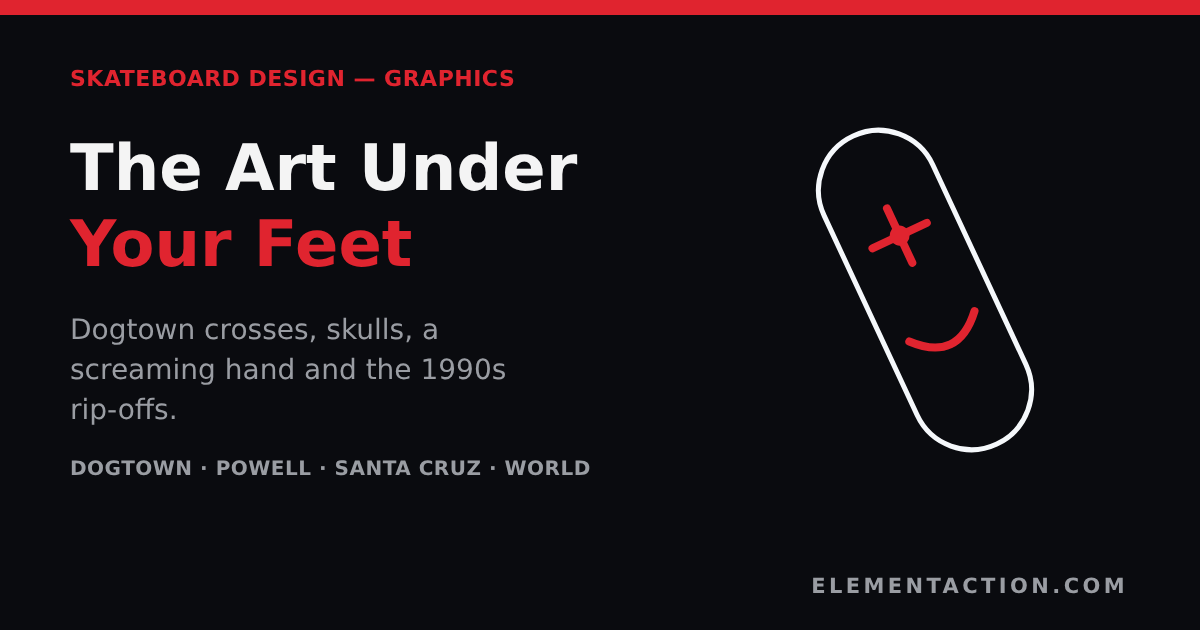
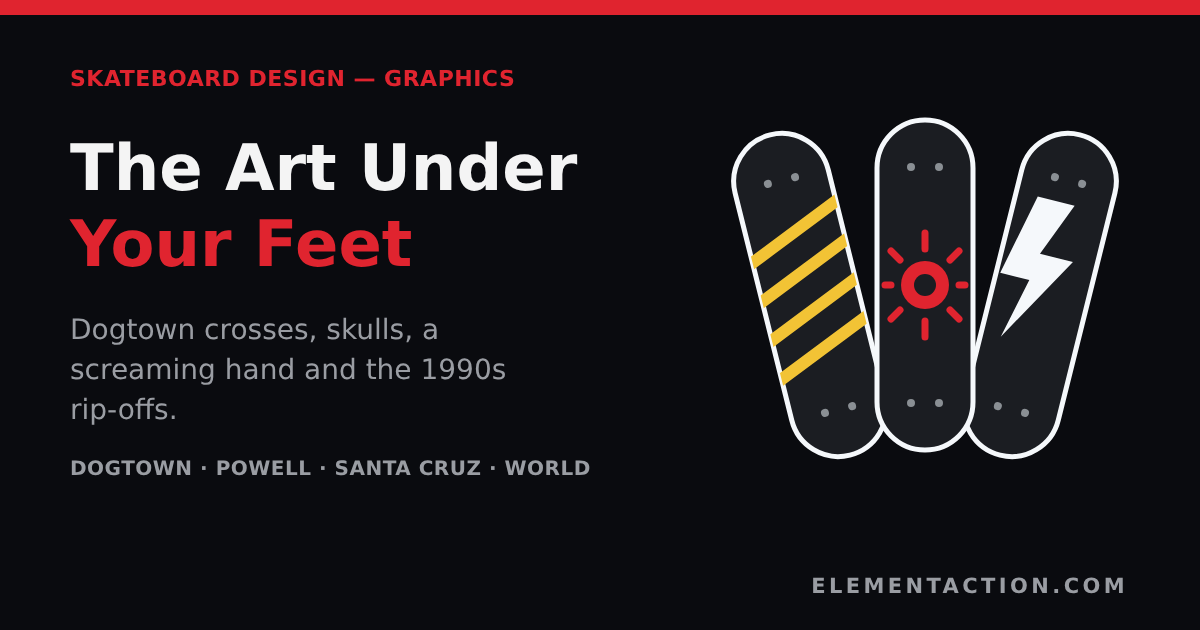
new art og bild

diff --git a/scripts/staging/make_og.py b/scripts/staging/make_og.py
@@ -1,0 +1,186 @@
+"""Delningsbilder (1200x630) för artiklarna, i samma stil som de befintliga:
+mörk bakgrund, färgad topplist, kicker, rubrik på två rader, ingress,
+nyckelord och ELEMENTACTION.COM nere till höger. Illustrationen till höger
+är enkel SVG. Kör: python3 scripts/staging/make_og.py"""
+import pathlib, sys
+from playwright.sync_api import sync_playwright
+
+ROOT = pathlib.Path(__file__).resolve().parents[2]
+OUT = ROOT / 'public/images/articles'
+
+ART = {
+    'museum': '''
+      <path d="M40 60 H410" stroke="#8a8f94" stroke-width="4" stroke-linecap="round"/>
+      <g fill="none" stroke-width="5">
+        <rect x="70" y="80" width="70" height="250" rx="35" stroke="#f5f8fb"/>
+        <rect x="190" y="80" width="70" height="250" rx="35" stroke="ACC"/>
+        <rect x="310" y="80" width="70" height="250" rx="35" stroke="#f5f8fb"/>
+      </g>
+      <g fill="#8a8f94"><circle cx="105" cy="68" r="5"/><circle cx="225" cy="68" r="5"/><circle cx="345" cy="68" r="5"/></g>
+      <g fill="ACC"><circle cx="90" cy="125" r="6"/><circle cx="120" cy="125" r="6"/><circle cx="90" cy="285" r="6"/><circle cx="120" cy="285" r="6"/></g>
+      <g fill="#f5f8fb"><circle cx="210" cy="125" r="6"/><circle cx="240" cy="125" r="6"/><circle cx="210" cy="285" r="6"/><circle cx="240" cy="285" r="6"/></g>
+      <g fill="ACC"><circle cx="330" cy="125" r="6"/><circle cx="360" cy="125" r="6"/><circle cx="330" cy="285" r="6"/><circle cx="360" cy="285" r="6"/></g>
+      <path d="M225 165 l11 22 24 3 -18 17 5 24 -22 -12 -22 12 5 -24 -18 -17 24 -3 z" fill="#f2c335"/>''',
+    'deck': '''
+      <defs>
+        <clipPath id="d1"><rect x="-48" y="-165" width="96" height="330" rx="48"/></clipPath>
+      </defs>
+      <g transform="translate(110 205) rotate(-14)">
+        <rect x="-48" y="-165" width="96" height="330" rx="48" fill="#1b1d22" stroke="#f5f8fb" stroke-width="5"/>
+        <g clip-path="url(#d1)">
+          <path d="M-60 -40 l120 -50 M-60 0 l120 -50 M-60 40 l120 -50 M-60 80 l120 -50" stroke="#f2c335" stroke-width="12"/>
+        </g>
+        <g fill="#8a8f94"><circle cx="-14" cy="-118" r="4"/><circle cx="14" cy="-118" r="4"/><circle cx="-14" cy="118" r="4"/><circle cx="14" cy="118" r="4"/></g>
+      </g>
+      <g transform="translate(340 205) rotate(14)">
+        <rect x="-48" y="-165" width="96" height="330" rx="48" fill="#1b1d22" stroke="#f5f8fb" stroke-width="5"/>
+        <path d="M-26 -95 l38 0 -22 55 34 0 -52 90 14 -62 -30 0 z" fill="#f5f8fb"/>
+        <g fill="#8a8f94"><circle cx="-14" cy="-118" r="4"/><circle cx="14" cy="-118" r="4"/><circle cx="-14" cy="118" r="4"/><circle cx="14" cy="118" r="4"/></g>
+      </g>
+      <g transform="translate(225 195)">
+        <rect x="-48" y="-165" width="96" height="330" rx="48" fill="#1b1d22" stroke="#f5f8fb" stroke-width="5"/>
+        <circle cx="0" cy="0" r="24" fill="ACC"/>
+        <circle cx="0" cy="0" r="11" fill="#1b1d22"/>
+        <path d="M0 -52 V-36 M0 36 V52 M-40 0 H-34 M34 0 H40 M-25 -25 l-9 -9 M25 25 l9 9 M25 -25 l9 -9 M-25 25 l-9 9" stroke="ACC" stroke-width="7" stroke-linecap="round"/>
+        <g fill="#8a8f94"><circle cx="-14" cy="-118" r="4"/><circle cx="14" cy="-118" r="4"/><circle cx="-14" cy="118" r="4"/><circle cx="14" cy="118" r="4"/></g>
+      </g>''',
+    'camera': '''
+      <rect x="70" y="110" width="310" height="200" rx="22" fill="none" stroke="#f5f8fb" stroke-width="6"/>
+      <path d="M140 110 l25 -35 h120 l25 35" fill="none" stroke="#f5f8fb" stroke-width="6" stroke-linejoin="round"/>
+      <circle cx="225" cy="210" r="70" fill="none" stroke="ACC" stroke-width="8"/>
+      <circle cx="225" cy="210" r="34" fill="ACC" fill-opacity=".35"/>
+      <circle cx="340" cy="145" r="9" fill="#f2c335"/>''',
+    'waves': '''
+      <path d="M0 260 Q75 200 150 260 T300 260 T450 260" stroke="ACC" stroke-width="5" fill="none"/>
+      <path d="M0 300 Q75 240 150 300 T300 300 T450 300" stroke="ACC" stroke-opacity=".6" stroke-width="5" fill="none"/>
+      <path d="M0 340 Q75 280 150 340 T300 340 T450 340" stroke="ACC" stroke-opacity=".35" stroke-width="5" fill="none"/>
+      <circle cx="360" cy="90" r="38" fill="none" stroke="#f2c335" stroke-width="5"/>
+      <path d="M40 120 l60 -10 M60 150 l70 -12 M30 90 l50 -8" stroke="#8a8f94" stroke-width="4" stroke-linecap="round"/>''',
+    'bigwave': '''
+      <path d="M0 360 C60 360 90 300 120 220 C150 120 230 40 330 50 C400 58 440 110 420 160 C405 200 360 205 340 180 C370 175 380 140 355 120 C320 95 260 130 240 210 C225 280 220 330 260 360 Z" fill="ACC" fill-opacity=".9"/>
+      <path d="M0 375 H450" stroke="ACC" stroke-width="5"/>
+      <path d="M150 300 l30 -40 l14 6" stroke="#f5f8fb" stroke-width="5" fill="none" stroke-linecap="round"/>
+      <text x="262" y="300" font-family="DejaVu Sans" font-weight="700" font-size="40" fill="#f5f8fb">26.21 m</text>''',
+    'board': '''
+      <g transform="translate(225 200) rotate(-35)">
+        <path d="M0 -175 C55 -120 62 60 30 160 L0 175 L-30 160 C-62 60 -55 -120 0 -175 Z" fill="none" stroke="ACC" stroke-width="5"/>
+        <path d="M0 -170 V170" stroke="ACC" stroke-opacity=".5" stroke-width="3"/>
+        <path d="M-22 120 l-10 30 l14 -6 Z M22 120 l10 30 l-14 -6 Z M0 135 l0 32" stroke="#f2c335" stroke-width="4" fill="#f2c335"/>
+      </g>
+      <text x="40" y="380" font-family="DejaVu Sans" font-weight="700" font-size="34" fill="#f5f8fb">litres?</text>''',
+    'punk': '''
+      <rect x="70" y="50" width="310" height="190" rx="16" fill="none" stroke="#f5f8fb" stroke-width="5"/>
+      <rect x="110" y="85" width="230" height="70" rx="8" fill="none" stroke="ACC" stroke-width="5"/>
+      <circle cx="160" cy="120" r="20" fill="none" stroke="#f5f8fb" stroke-width="5"/>
+      <circle cx="290" cy="120" r="20" fill="none" stroke="#f5f8fb" stroke-width="5"/>
+      <path d="M130 240 l25 -45 h140 l25 45" fill="none" stroke="#f5f8fb" stroke-width="5"/>
+      <path d="M60 320 Q215 360 390 320" stroke="ACC" stroke-width="10" fill="none" stroke-linecap="round"/>
+      <circle cx="115" cy="352" r="14" fill="ACC"/><circle cx="335" cy="352" r="14" fill="ACC"/>'''
+,
+    'spiral': '''
+      <ellipse cx="225" cy="80" rx="150" ry="26" fill="none" stroke="#c8ccd0" stroke-width="5"/>
+      <ellipse cx="225" cy="150" rx="135" ry="24" fill="none" stroke="#c8ccd0" stroke-width="5"/>
+      <ellipse cx="225" cy="218" rx="120" ry="22" fill="none" stroke="#c8ccd0" stroke-width="5"/>
+      <ellipse cx="225" cy="284" rx="105" ry="20" fill="none" stroke="#c8ccd0" stroke-width="5"/>
+      <path d="M75 80 L120 284 M375 80 L330 284" stroke="#c8ccd0" stroke-width="5"/>
+      <path d="M40 360 C120 300 170 380 250 330 C310 290 360 350 420 320" stroke="ACC" stroke-width="7" fill="none"/>''',
+    'mountain': '''
+      <path d="M0 360 L130 140 L200 230 L290 60 L450 360 Z" fill="ACC" fill-opacity=".85"/>
+      <path d="M290 60 L250 135 L272 125 L290 145 L310 122 L328 132 Z M130 140 L105 182 L125 175 L140 188 L152 172 Z" fill="#f5f8fb"/>
+      <path d="M150 330 l120 -40" stroke="#f2c335" stroke-width="10" stroke-linecap="round"/>''',
+    'boards': '''
+      <g fill="none" stroke-width="5">
+        <rect x="60" y="60" width="62" height="290" rx="31" stroke="ACC"/>
+        <rect x="150" y="80" width="62" height="270" rx="31" stroke="ACC" stroke-opacity=".75"/>
+        <path d="M240 100 h62 v220 l-31 30 l-31 -30 z" stroke="ACC" stroke-opacity=".55" stroke-linejoin="round"/>
+        <path d="M330 120 c0 -40 62 -40 62 0 v190 c0 30 -62 30 -62 0 z" stroke="#f2c335"/>
+      </g>''',
+}
+
+import re as _re
+ART['boardart'] = _re.sub(r'<text[^>]*>[^<]*</text>', '', ART['board'])
+
+DATA = [
+    dict(slug='skateboarding-hall-of-fame-museum', acc='#e0242f', art='museum',
+         kicker='SKATEBOARD HISTORY — HALL OF FAME', t1='Hall of Fame', t2='& Museum',
+         lead="Todd Huber's collection in Simi Valley and all 232 inductees, 2009–2026.",
+         tags='SIMI VALLEY · 2009–2026 · LEGENDS'),
+    dict(slug='skateboard-graphics-history', acc='#e0242f', art='deck',
+         kicker='SKATEBOARD DESIGN — GRAPHICS', t1='The Art Under', t2='Your Feet',
+         lead='Dogtown crosses, skulls, a screaming hand and the 1990s rip-offs.',
+         tags='DOGTOWN · POWELL · SANTA CRUZ · WORLD'),
+    dict(slug='surfboard-art-history', acc='#3b8eea', art='boardart',
+         kicker='SURF DESIGN — BOARD ART', t1='The Surfboard', t2='as Canvas',
+         lead='Pinlines, resin tints, airbrush and the artists who drew surf culture.',
+         tags='TINT · PINLINE · AIRBRUSH · SURF ART'),
+    dict(slug='snowboard-graphics-history', acc='#5cb6ff', art='boards',
+         kicker='SNOWBOARD DESIGN — GRAPHICS', t1='From Logo', t2='to Canvas',
+         lead='The boards that changed how snowboards look, from 1977 to today.',
+         tags='MYSTERY AIR · OUIJA · LIB TECH · CAPITA'),
+    dict(slug='board-culture-photographers', acc='#44d62c', art='camera',
+         kicker='INSPIRATION — PHOTOGRAPHY', t1='Through', t2='the Lens',
+         lead='The photographers who framed surf, skate and snowboard culture.',
+         tags='GRANNIS · BOLSTER · FRIEDMAN · BRITTAIN'),
+    dict(slug='snow-guide-world-slopes-2026-27', acc='#5cb6ff', art='mountain',
+         kicker='SNOWBOARD GUIDE — SEASON 2026/27', t1='Where the', t2='Snow Is',
+         lead='USA, Canada, Japan and Europe: openings, snow reports and avalanche info.',
+         tags='OPENING DATES · SNOW · AVALANCHE'),
+
+    dict(slug='la-punk-skate-scene-1980s', acc='#e0242f', art='punk',
+         kicker='SKATEBOARD HISTORY — LA 1975–1990', t1='Skate & Destroy', t2='LA Punk',
+         lead='Dogtown pools, Black Flag, Suicidal Tendencies and the Skate Rock tapes.',
+         tags='Z-BOYS · SST · VENICE · THRASHER'),
+    dict(slug='guggenheim-history-museums', acc='#44d62c', art='spiral',
+         kicker='INSPIRATION — ARCHITECTURE & ART', t1='The Guggenheim', t2='Story',
+         lead='From a spiral on Fifth Avenue to titanium in Bilbao and a new museum in Abu Dhabi.',
+         tags='NEW YORK · VENICE · BILBAO · ABU DHABI'),
+    dict(slug='snowboard-history', acc='#5cb6ff', art='mountain',
+         kicker='SNOWBOARD HISTORY — 1965 TO TODAY', t1='From Snurfer', t2='to Olympic Gold',
+         lead='A garage in Michigan, resort bans and the road to Nagano 1998.',
+         tags='SNURFER · BURTON · SIMS · OLYMPICS'),
+    dict(slug='snowboard-types-how-to-choose', acc='#5cb6ff', art='boards',
+         kicker='SNOWBOARD GUIDE — BUYING', t1='Choose the Right', t2='Snowboard',
+         lead='Board types, camber and rocker, flex, length and width explained.',
+         tags='TYPES · PROFILES · SIZE · WIDTH'),
+    dict(slug='surfboards-explained-volume-shape', acc='#3b8eea', art='board',
+         kicker='SURF GUIDE — BOARDS', t1='Surfboards', t2='Explained',
+         lead='Volume in litres, rocker, rails, fins and how to buy the right board.',
+         tags='VOLUME · SHAPE · FINS · BUYING'),
+    dict(slug='physics-of-surf-waves', acc='#3b8eea', art='waves',
+         kicker='SURF SCIENCE — WAVES', t1='The Physics', t2='of Surf',
+         lead='How a distant storm becomes a wave you can ride.',
+         tags='SWELL · PERIOD · REFRACTION · BREAKING'),
+    dict(slug='big-wave-surfing-nazare-mavericks', acc='#3b8eea', art='bigwave',
+         kicker='BIG WAVE SURFING', t1='Nazaré &', t2='Mavericks',
+         lead='Why the waves get so big, the world records and the risks.',
+         tags='CANYON · REEF · RECORDS · TOW-IN'),
+]
+
+TPL = '''<!doctype html><html><head><meta charset="utf-8"><style>
+*{margin:0;padding:0;box-sizing:border-box}
+body{width:1200px;height:630px;background:#0a0b0f;font-family:'DejaVu Sans',sans-serif;position:relative;overflow:hidden}
+.bar{position:absolute;top:0;left:0;right:0;height:15px;background:ACC}
+.k{position:absolute;left:70px;top:66px;color:ACC;font-weight:700;font-size:22px;letter-spacing:.5px}
+.t{position:absolute;left:70px;top:130px;font-weight:700;font-size:64px;line-height:76px;color:#f4f4f4;width:640px}
+.t span{color:ACC}
+.l{position:absolute;left:70px;top:310px;width:470px;color:#9a9da3;font-size:28px;line-height:40px}
+.g{position:absolute;left:70px;top:456px;color:#9a9da3;font-weight:700;font-size:20px;letter-spacing:.5px}
+.d{position:absolute;right:72px;bottom:32px;color:#9a9da3;font-weight:700;font-size:21px;letter-spacing:3.4px}
+svg{position:absolute;right:50px;top:90px}
+</style></head><body><div class="bar"></div>
+<div class="k">KICK</div><div class="t">T1<br><span>T2</span></div>
+<div class="l">LEAD</div><div class="g">TAGS</div><div class="d">ELEMENTACTION.COM</div>
+<svg width="450" height="400" viewBox="0 0 450 400">ART</svg></body></html>'''
+
+with sync_playwright() as p:
+    b = p.chromium.launch()
+    pg = b.new_page(viewport={'width': 1200, 'height': 630})
+    for d in [x for x in DATA if len(sys.argv) < 2 or x['slug'] in sys.argv[1:]]:
+        html = (TPL.replace('ART', ART[d['art']]).replace('ACC', d['acc']).replace('KICK', d['kicker'])
+                .replace('T1', d['t1']).replace('T2', d['t2']).replace('LEAD', d['lead']).replace('TAGS', d['tags']))
+        pg.set_content(html)
+        out = OUT / d['slug'] / 'og-image.png'
+        out.parent.mkdir(parents=True, exist_ok=True)
+        pg.screenshot(path=str(out))
+        print('ok', out)
+    b.close()
